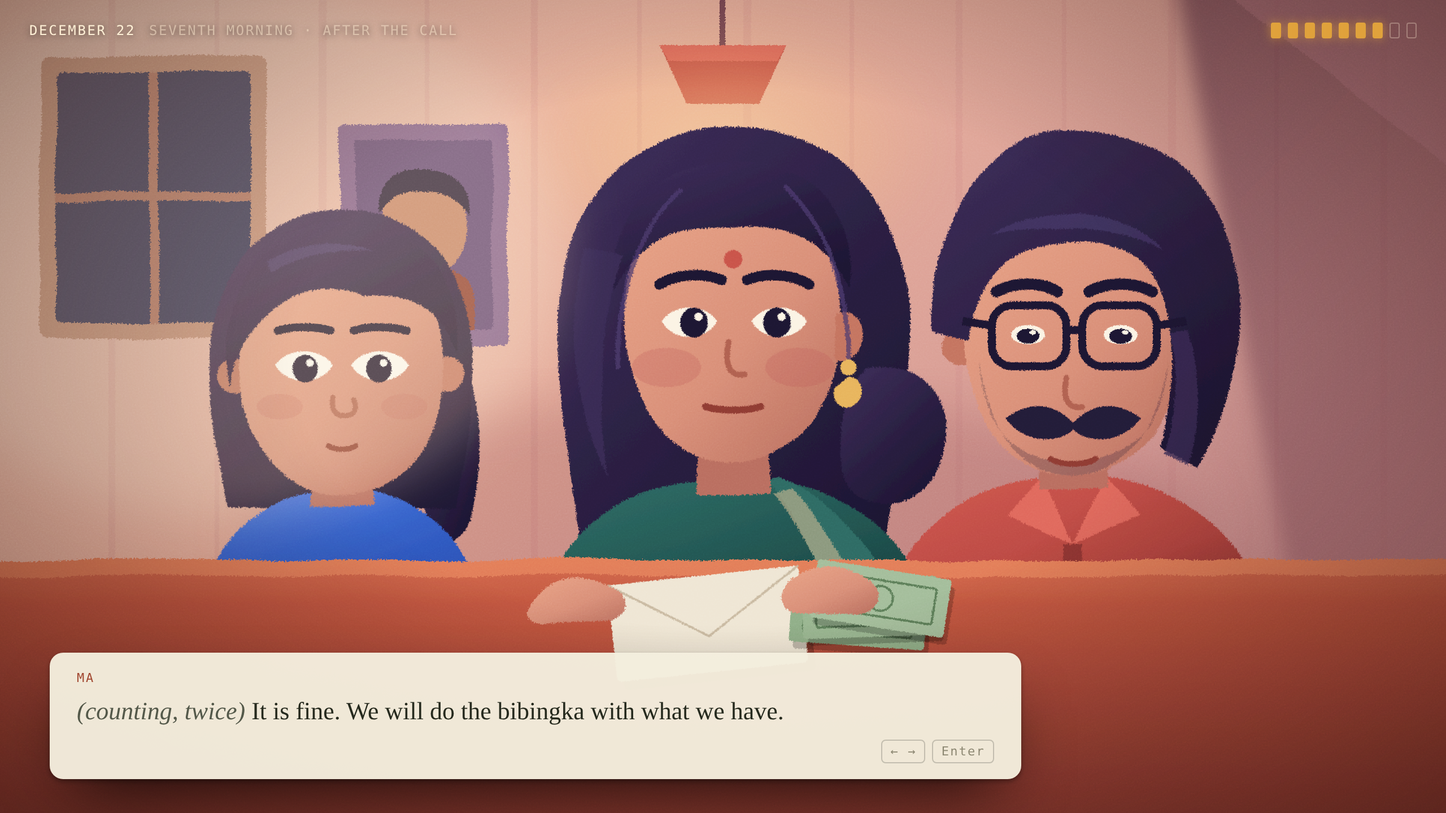
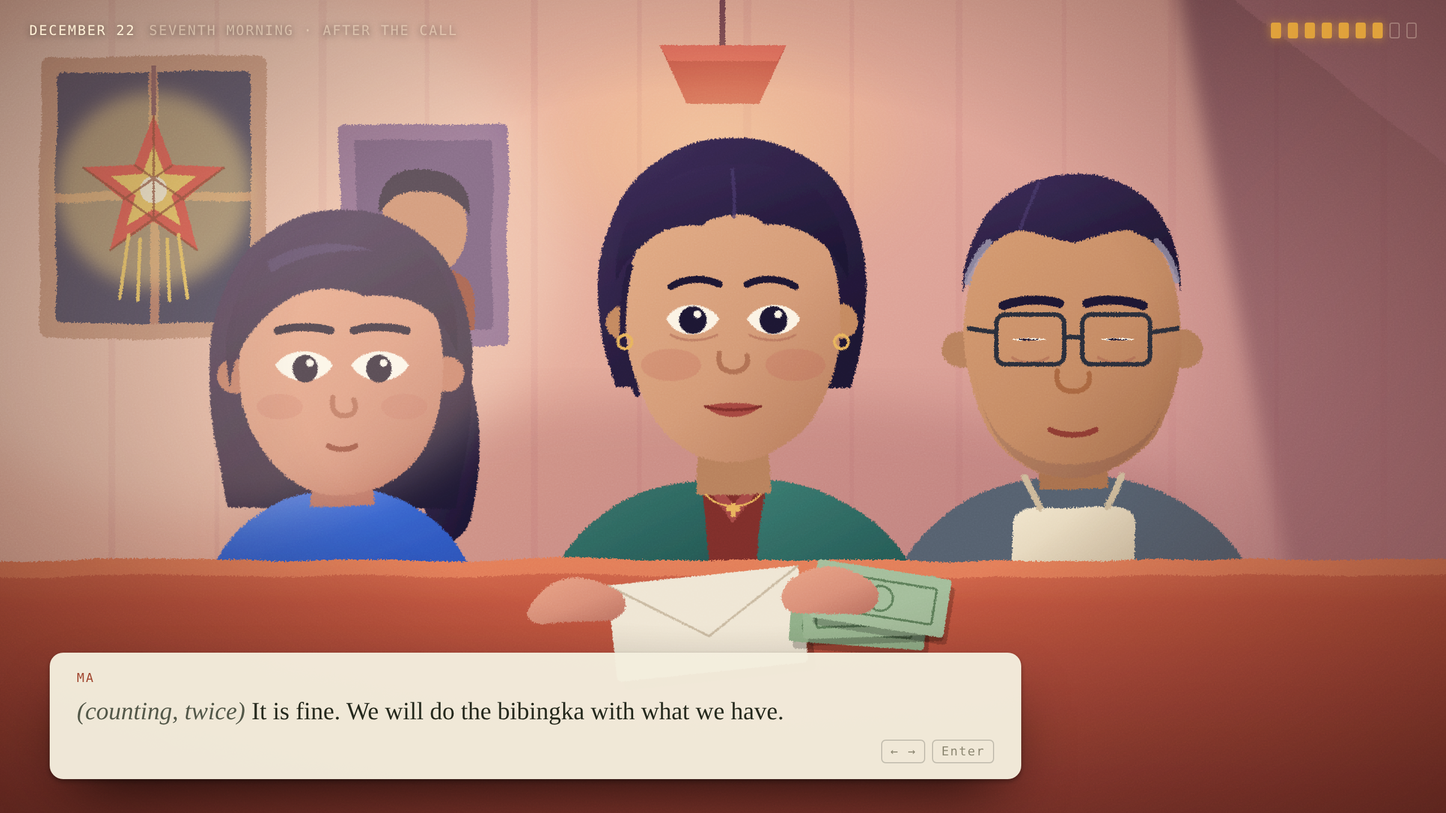
Redraw Ma and Pa as Divina and Rey Ramos
The two parents were carried over from the first Venba probe and kept
its Tamil signifiers. Redrawn for a Filipino family in Jersey City:

- Divina: rounder face, soft broad nose, hair pulled back into a low
  bun with a loose strand, small gold hoops, thin cross, teal cardigan
  over a maroon polo.
- Rey: squarer face, thin rectangular glasses, receding hairline with
  grey temples, light stubble, apron over a grey tee.
- Parol added to the window of the dining scene.
- cast-ramos.html: the three of them side by side from the shared defs.

Claude-Session: https://claude.ai/code/session_01EQTHH2fQmMpKD6VoY7kv8Y

Changed region(s): [[0.375, 0.1562, 0.875, 0.6875], [0.0312, 0.0938, 0.1875, 0.375]]

diff --git a/assets/samples/cast-ramos.html b/assets/samples/cast-ramos.html
@@ -1,40 +1,15 @@
 <!doctype html><html><head><meta charset="utf-8">
-<link href="https://fonts.googleapis.com/css2?family=Fraunces:opsz,wght@9..144,400;9..144,600&family=Source+Sans+3:wght@400;600&family=IBM+Plex+Mono:wght@400;500&display=swap" rel="stylesheet">
+<link href="https://fonts.googleapis.com/css2?family=IBM+Plex+Mono:wght@400;500&family=Fraunces:opsz,wght@9..144,400;9..144,600&display=swap" rel="stylesheet">
 <style>
-  *{box-sizing:border-box}
-  html,body{margin:0;padding:0;background:#2a1a16;font-family:"Source Sans 3",sans-serif}
-  .stage{position:relative;width:1280px;height:720px;overflow:hidden;background:#2a1a16}
-  .art{position:absolute;inset:0} svg{display:block}
-
-  @keyframes blink{0%,91%{transform:scaleY(1)}94%{transform:scaleY(.06)}97%,100%{transform:scaleY(1)}}
-  .blink{animation:blink 5s ease-in-out infinite}
-  .blink.b{animation-delay:-1.7s;animation-duration:6.1s}.blink.c{animation-delay:-3.4s;animation-duration:5.6s}
-  @keyframes breathe{0%,100%{transform:translateY(0)}50%{transform:translateY(2px)}}
-  .breathe{animation:breathe 3.8s ease-in-out infinite}.breathe.b{animation-delay:-1.3s}.breathe.c{animation-delay:-2.6s}
-  @keyframes flicker{0%,100%{opacity:.5}50%{opacity:.62}}
-  .lamp{animation:flicker 2.4s ease-in-out infinite}
-
-  .hud{position:absolute;top:0;left:0;right:0;display:flex;justify-content:space-between;padding:20px 26px;
-    font-family:"IBM Plex Mono",monospace;font-size:12px;letter-spacing:.11em;text-transform:uppercase;
-    color:rgba(255,236,210,.7);text-shadow:0 1px 6px rgba(0,0,0,.5);z-index:5}
-  .hud .date{color:#fff0d6}.hud .sub{color:rgba(255,236,210,.5);margin-left:12px}
-  .marks{display:flex;gap:6px;align-items:center}
-  .mk{width:9px;height:14px;border-radius:2px;border:1px solid rgba(255,236,210,.32)}
-  .mk.on{background:#e0a23c;border-color:#e0a23c;box-shadow:0 0 9px rgba(224,162,60,.65)}
-
-  .dlg{position:absolute;left:0;right:0;bottom:0;padding:0 44px 30px;z-index:5}
-  .panel{background:rgba(244,238,222,.965);border-radius:12px;padding:16px 24px 14px;max-width:860px;
-    box-shadow:0 2px 4px rgba(0,0,0,.35),0 26px 60px -22px rgba(0,0,0,.9)}
-  .who{font-family:"IBM Plex Mono",monospace;font-size:11px;letter-spacing:.13em;text-transform:uppercase;color:#a1462f;margin-bottom:7px}
-  .line{font-family:"Fraunces",Georgia,serif;font-size:22px;line-height:1.42;color:#262a1e;margin:0}
-  .line em{font-style:italic;color:#54594a}
-  .adv{display:flex;justify-content:flex-end;margin-top:10px;font-family:"IBM Plex Mono",monospace;font-size:11px;letter-spacing:.1em;color:#8d8873}
-  .adv span{border:1px solid rgba(38,42,30,.22);border-radius:4px;padding:3px 7px;margin-left:6px}
-
-  .vig{position:absolute;inset:0;pointer-events:none;z-index:4;background:radial-gradient(ellipse at 50% 44%,transparent 42%,rgba(40,14,10,.55) 100%)}
-  .grain{position:absolute;inset:0;pointer-events:none;z-index:4;opacity:.14;mix-blend-mode:overlay;filter:url(#grain)}
-</style></head><body>
-<div class="stage"><div class="art">
+  *{box-sizing:border-box} html,body{margin:0;padding:0}
+  .stage{position:relative;width:1280px;height:720px;overflow:hidden;background:linear-gradient(160deg,#f7d3bf 0%,#eeb8a6 55%,#d9979a 100%)}
+  svg{display:block;position:absolute;inset:0}
+  .lbl{position:absolute;top:596px;width:360px;text-align:center;font-family:"IBM Plex Mono",monospace;font-size:12px;letter-spacing:.14em;text-transform:uppercase;color:#5a2e2a}
+  .lbl b{display:block;font-family:"Fraunces",serif;font-weight:600;font-size:24px;letter-spacing:0;text-transform:none;color:#3a1c18;margin-bottom:5px}
+  .lbl span{display:block;color:rgba(90,46,42,.6);font-size:11px;text-transform:none;letter-spacing:.02em;margin-top:5px;font-family:"Fraunces",serif;font-style:italic}
+  .title{position:absolute;top:26px;left:34px;font-family:"IBM Plex Mono",monospace;font-size:12px;letter-spacing:.14em;text-transform:uppercase;color:rgba(90,46,42,.7)} .title b{color:#3a1c18;font-weight:500}
+  .grain{position:absolute;inset:0;pointer-events:none;opacity:.13;mix-blend-mode:overlay;filter:url(#grain)}
+</style></head><body><div class="stage">
 <svg width="1280" height="720" viewBox="0 0 1280 720">
   <defs>
     <linearGradient id="wall" x1="0" y1="0" x2="1" y2="0.6"><stop offset="0%" stop-color="#f4c8b2"/><stop offset="40%" stop-color="#e9b09c"/><stop offset="100%" stop-color="#c98a8c"/></linearGradient>
@@ -171,82 +146,14 @@
       </g>
     </g>
   </defs>
-
-  <!-- ===== room ===== -->
-  <rect width="1280" height="720" fill="url(#wall)"/>
-  <g opacity=".16" filter="url(#roughFine)" fill="#c97f82">
-    <rect x="96" y="0" width="6" height="560"/><rect x="190" y="0" width="4" height="560"/><rect x="282" y="0" width="7" height="560"/><rect x="376" y="0" width="4" height="560"/>
-    <rect x="470" y="0" width="6" height="560"/><rect x="564" y="0" width="4" height="560"/><rect x="658" y="0" width="7" height="560"/><rect x="752" y="0" width="4" height="560"/>
-    <rect x="846" y="0" width="6" height="560"/><rect x="940" y="0" width="4" height="560"/><rect x="1034" y="0" width="7" height="560"/><rect x="1128" y="0" width="4" height="560"/><rect x="1222" y="0" width="6" height="560"/>
-  </g>
-  <!-- window light, left -->
-  <g filter="url(#rough)"><rect x="36" y="50" width="200" height="250" rx="8" fill="#c58a72"/><rect x="50" y="64" width="172" height="222" rx="5" fill="#2a2f52"/><rect x="132" y="64" width="8" height="222" fill="#b4705e"/><rect x="50" y="170" width="172" height="8" fill="#b4705e"/></g>
-  <!-- parol in the window : December, Simbang Gabi -->
-  <g transform="translate(136 168)">
-    <circle r="86" fill="#ffd27a" opacity=".55" filter="url(#mid)"/>
-    <g filter="url(#roughFine)">
-      <path d="M 0 -66 L 17 -22 L 63 -20 L 27 9 L 39 54 L 0 28 L -39 54 L -27 9 L -63 -20 L -17 -22 Z" fill="#e0453f"/>
-      <path d="M 0 -40 L 10 -14 L 38 -12 L 16 5 L 24 32 L 0 17 L -24 32 L -16 5 L -38 -12 L -10 -14 Z" fill="#f4c65a"/>
-      <circle r="12" fill="#fff4d2"/>
-      <g stroke="#7a2e22" stroke-width="2" opacity=".7" fill="none"><path d="M 0 -66 L 0 28"/><path d="M 63 -20 L -39 54"/><path d="M -63 -20 L 39 54"/><path d="M 17 -22 L -27 9"/><path d="M -17 -22 L 27 9"/></g>
-      <path d="M -22 40 L -30 96 M -12 44 L -14 98 M 12 44 L 14 98 M 22 40 L 30 96" stroke="#f4c65a" stroke-width="3" stroke-linecap="round"/>
-      <path d="M -2 -66 L 2 -66 L 2 -110 L -2 -110 Z" fill="#7a4a54"/>
-    </g>
-  </g>
-  <!-- stair shadow, right -->
-  <path d="M 1040 -20 L 1300 -20 L 1300 720 L 1180 720 Z" fill="url(#stairShade)" style="mix-blend-mode:multiply" filter="url(#mid)"/>
-  <g filter="url(#rough)"><path d="M 1080 -10 L 1300 -10 L 1300 160 Z" fill="#b87c86" opacity=".5"/></g>
-  <!-- hanging lamp over the table -->
-  <g filter="url(#roughFine)"><rect x="637" y="0" width="5" height="40" fill="#7a4a54"/><path d="M 584 40 L 696 40 L 672 92 L 608 92 Z" fill="#c9524a"/><path d="M 584 40 L 696 40 L 688 54 L 592 54 Z" fill="#e0685c"/></g>
-  <ellipse cx="640" cy="130" rx="190" ry="110" fill="url(#lampGlow)" filter="url(#soft)" class="lamp"/>
-  <!-- frames -->
-  <g filter="url(#rough)">
-    <rect x="300" y="110" width="150" height="196" rx="5" fill="#7e5a86"/><rect x="314" y="124" width="122" height="168" rx="3" fill="#5c4270"/>
-    <path d="M 375 156 C 402 156 414 176 414 202 C 414 230 398 246 375 246 C 352 246 336 230 336 202 C 336 176 348 156 375 156 Z" fill="#c58063"/>
-    <path d="M 375 150 C 406 150 418 170 416 190 C 404 174 390 168 375 170 C 360 168 346 174 334 190 C 332 170 344 150 375 150 Z" fill="#241a38"/>
-    <path d="M 330 292 L 330 262 C 330 244 352 236 375 236 C 398 236 420 244 420 262 L 420 292 Z" fill="#8e3a33"/>
-  </g>
-
-  <!-- ===== the family, straight on ===== -->
-  <ellipse cx="640" cy="470" rx="420" ry="120" fill="#9a5f72" opacity=".22" filter="url(#soft)" style="mix-blend-mode:multiply"/>
-  <g transform="translate(160 150) scale(1.02)"><g class="breathe"><use href="#tala"/></g></g>
-  <g transform="translate(800 92)"><g class="breathe c"><use href="#pa"/></g></g>
-  <g transform="translate(496 82) scale(1.02)"><g class="breathe b"><use href="#ma"/></g></g>
-
-  <!-- ===== table + the envelope ===== -->
-  <g filter="url(#rough)">
-    <rect x="-40" y="496" width="1360" height="260" fill="url(#table)"/>
-    <rect x="-40" y="496" width="1360" height="14" fill="#e8845e" opacity=".75"/>
-  </g>
-  <!-- money counted out, envelope, remittance slip --><g transform="translate(0 -62)">
-  <g transform="rotate(-6 620 600)" filter="url(#roughFine)">
-    <rect x="540" y="572" width="170" height="86" rx="4" fill="#000" opacity=".25" transform="translate(6 8)"/>
-    <rect x="540" y="572" width="170" height="86" rx="4" fill="#efe6d4"/>
-    <path d="M 540 572 L 625 626 L 710 572" stroke="#c9b9a0" stroke-width="2" fill="none"/>
-  </g>
-  <g filter="url(#roughFine)">
-    <g transform="rotate(4 760 604)"><rect x="700" y="582" width="120" height="52" rx="3" fill="#000" opacity=".22" transform="translate(4 6)"/><rect x="700" y="582" width="120" height="52" rx="3" fill="#8fae87"/><rect x="712" y="592" width="96" height="32" rx="2" fill="none" stroke="#5c7d58" stroke-width="2"/><circle cx="760" cy="608" r="11" fill="none" stroke="#5c7d58" stroke-width="2"/></g>
-    <g transform="rotate(-2 770 596)"><rect x="710" y="574" width="120" height="52" rx="3" fill="#000" opacity=".22" transform="translate(4 6)"/><rect x="710" y="574" width="120" height="52" rx="3" fill="#98b58f"/><rect x="722" y="584" width="96" height="32" rx="2" fill="none" stroke="#5c7d58" stroke-width="2"/><circle cx="770" cy="600" r="11" fill="none" stroke="#5c7d58" stroke-width="2"/></g>
-    <g transform="rotate(9 780 588)"><rect x="720" y="566" width="120" height="52" rx="3" fill="#000" opacity=".22" transform="translate(4 6)"/><rect x="720" y="566" width="120" height="52" rx="3" fill="#a3bd9a"/><rect x="732" y="576" width="96" height="32" rx="2" fill="none" stroke="#5c7d58" stroke-width="2"/><circle cx="780" cy="592" r="11" fill="none" stroke="#5c7d58" stroke-width="2"/></g>
-  </g>
-  <!-- Ma's hands on the envelope -->
-  <g filter="url(#rough)">
-    <path d="M 470 596 C 486 570 520 566 546 584 C 560 594 552 612 536 612 L 480 616 C 466 614 462 604 470 596 Z" fill="url(#skin)"/>
-    <path d="M 700 574 C 724 556 758 560 774 580 C 784 594 772 608 756 606 L 704 604 C 690 600 688 586 700 574 Z" fill="url(#skin)"/>
-  </g>
-  </g>
-  <!-- warm key light -->
-  <ellipse cx="200" cy="220" rx="300" ry="240" fill="#ffd9a0" opacity=".28" filter="url(#soft)" style="mix-blend-mode:screen"/>
-</svg></div>
-
-<div class="vig"></div><div class="grain"></div>
-<div class="hud">
-  <div><span class="date">December 22</span><span class="sub">Seventh morning &middot; After the call</span></div>
-  <div class="marks"><i class="mk on"></i><i class="mk on"></i><i class="mk on"></i><i class="mk on"></i><i class="mk on"></i><i class="mk on"></i><i class="mk on"></i><i class="mk"></i><i class="mk"></i></div>
-</div>
-<div class="dlg"><div class="panel">
-  <div class="who">Ma</div>
-  <p class="line"><em>(counting, twice)</em> It is fine. We will do the bibingka with what we have.</p>
-  <div class="adv"><span>&larr; &rarr;</span><span>Enter</span></div>
-</div></div>
+  <ellipse cx="240" cy="140" rx="380" ry="260" fill="#ffe0c0" opacity=".45" filter="url(#soft)" style="mix-blend-mode:screen"/>
+  <g transform="translate(90 200) scale(1.06)"><ellipse cx="140" cy="360" rx="130" ry="16" fill="#7a2e2e" opacity=".22" filter="url(#soft)"/><use href="#tala"/></g>
+  <g transform="translate(470 152) scale(1.0)"><ellipse cx="150" cy="420" rx="150" ry="18" fill="#7a2e2e" opacity=".22" filter="url(#soft)"/><use href="#ma"/></g>
+  <g transform="translate(840 150) scale(1.0)"><ellipse cx="150" cy="420" rx="150" ry="18" fill="#7a2e2e" opacity=".22" filter="url(#soft)"/><use href="#pa"/></g>
+</svg>
+<div class="grain"></div>
+<div class="title"><b>The Ramos family</b> &nbsp;&middot;&nbsp; straight-on cast &nbsp;&middot;&nbsp; Jersey City, December</div>
+<div class="lbl" style="left:60px"><b>Tala</b>Player, 17<span>Two years here. Works the kitchen after school.</span></div>
+<div class="lbl" style="left:440px"><b>Divina &middot; Ma</b>Front of house<span>Remembers every regular's order. Absorbs the room.</span></div>
+<div class="lbl" style="left:810px"><b>Rey &middot; Pa</b>Kitchen<span>A pharmacist for eleven years. Cooks now.</span></div>
 </div></body></html>

diff --git a/assets/samples/README.md b/assets/samples/README.md
@@ -90,6 +90,7 @@ NODE_PATH=/opt/node22/lib/node_modules node tools/render-gif.js <in.html> <out.g
 | File | What it is |
 |---|---|
 | `expressions-tala.html` | One head, four expressions. Only brows, eyes and mouth swap. |
+| `cast-ramos.html` | The cast: Tala, Divina (Ma) and Rey (Pa), straight-on, in one style. |
 | `scene-dining.html` | Dialogue format: the family straight-on at the table, scene 4 "The envelope". |
 | `scene-cooking-topdown.html` | Cooking format: top-down, no character on screen, cursor glove as the only hand. |
 | `scene-cooking.html` | Kept as the counter-example: a three-quarter face, which is where flat shapes break. |
@@ -115,3 +116,16 @@ NODE_PATH=/opt/node22/lib/node_modules node tools/render-gif.js <in.html> <out.g
 Every character in `scene-dining.html` blinks and breathes on its own
 offset. That, plus steam on any dish, is enough to keep a static scene from
 feeling like a slide. Reaction beats are an expression-part swap.
+
+### Cast note
+
+Ma and Pa were first drawn inside the Venba probe and inherited its Tamil
+signifiers (bindi, sari, heavy moustache, a sharp bridge-line nose). Those
+were wrong for Divina and Rey Ramos and have been redrawn: rounder, fuller
+faces with a soft broad nose drawn as an underside only; hair pulled back
+into a low bun for front of house; thin rectangular frames, receding
+hairline and grey temples for a man of fifty; small hoops and a thin cross;
+a cardigan and an apron over work clothes. The parol in the window carries
+the season. Skin tones vary slightly across the family, as they do in real
+families. Still worth a look from a Filipino colleague before anything
+ships, as the spec itself says.
